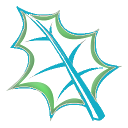
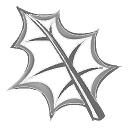
nerva2py v0.9.8

Changed region(s): [[0.0625, 0.0312, 0.9375, 0.9688]]

diff --git a/applications/nerva2py/views/ndi_demo/index.html b/applications/nerva2py/views/ndi_demo/index.html
@@ -85,14 +85,14 @@ var ms_missing = "{{=T('Missing required field!')}}"
 <table style="width: 100%;height: 100%;" cellpadding="0" cellspacing="0" border="0">
   <tr>
     <td colspan="2" style="background-color: #ECECEC;padding: 20px;padding-bottom: 15px;">
-      <div>
-        <div style="float: left;">
+      <div style="display: table;width: 100%;">
+        <div style="float: left;display: table-cell;height: 30px;">
           <span style="vertical-align: bottom;font-weight: bold;font-size: 44px;color: #8B8B83;">{{=response.subtitle}}</span>
         </div>
-        <div style="float: right;">
+        <div style="float: right;display: table-cell;vertical-align: middle;">
           <a href="http://www.nervatura.com" target="_blank" title="Nervatura" 
              style="font-weight: bold;">
-             <img style="vertical-align: middle;" src="{{=URL('static/images','icon24_ntura.png')}}"/>
+             <img style="vertical-align: middle;" src="{{=URL('static/images','icon24_ntura_te.png')}}"/>
              <span style="vertical-align: bottom;">©2011-2013 Nervatura Framework</span>
           </a>
           &nbsp;<span class="vernum">Ver.No: {{=response.verNo}}</span>

diff --git a/applications/nerva2py/static/resources/application/nmc/help/en/index.html b/applications/nerva2py/static/resources/application/nmc/help/en/index.html
@@ -97,7 +97,7 @@ $(document).bind("mobileinit", function(){
       <div data-role="content" align="center">
         <hr>
         <div style="font-weight: bold;width: 100%;text-align: center;font-size: large;">
-<!--           <img style="vertical-align: middle;" src="{{=URL('static/images','icon24_ntura.png')}}"/> -->
+<!--           <img style="vertical-align: middle;" src="{{=URL('static/images','icon24_ntura_te.png')}}"/> -->
           <span style="vertical-align: bottom;">{{=response.title}}</span>
         </div>
         <div style="font-weight: bold;width: 100%;text-align: center;font-size: large;">{{=T('HELP')}}</div>

diff --git a/applications/nerva2py/views/help/layout.html b/applications/nerva2py/views/help/layout.html
@@ -97,7 +97,7 @@
         <div class="footer-content clearfix">
           <div style="float: left;">
             <img style="vertical-align: middle;" height="16px" width="16px"
-            src="{{=URL('static','images/icon24_ntura.png')}}" /> 
+            src="{{=URL('static','images/icon24_ntura_te.png')}}" /> 
             <a href="http://www.nervatura.com" title="Nervatura OS Client" >Nervatura</a>
             &nbsp;
           </div>

diff --git a/applications/nerva2py/views/ndi_demo/layout.html b/applications/nerva2py/views/ndi_demo/layout.html
@@ -47,7 +47,7 @@
   }}
 
   {{include 'web2py_ajax.html'}}
-
+   
   <!-- uncomment here to load jquery-ui
   <link rel="stylesheet" href="http://ajax.googleapis.com/ajax/libs/jqueryui/1.8.16/themes/base/jquery-ui.css" type="text/css" media="all" />
   <script src="http://ajax.googleapis.com/ajax/libs/jqueryui/1.8.16/jquery-ui.min.js" type="text/javascript"></script>

diff --git a/applications/nerva2py/models/db.py b/applications/nerva2py/models/db.py
@@ -17,6 +17,7 @@ if 0:
 import sys,os
 from gluon.sql import DAL, Field
 from gluon.validators import IS_IN_DB
+from gluon.html import FORM, SELECT, URL, OPTION
 
 response.google_analytics_id = None
   
@@ -58,6 +59,26 @@ try:
   analytics_id.close()
 except:
   pass
+
+current_language = 'en'
+languages=[('en','English'),
+           ('hu','Magyar')]
+
+session._language = request.vars._language or session._language or current_language
+T.force(session._language)
+if T.accepted_language != session._language:
+  import re
+  lang = re.compile('\w{2}').findall(session._language)[0]
+  response.files.append(URL(r=request,c='static',f='js/jquery.translate.min.js'))
+  response.files.append(URL(r=request,c='ndr',f='translate',args=lang+'.js'))
+
+def translate():
+  return FORM(SELECT(
+    _id="translate",
+    _onchange="document.location='%s?_language='+jQuery(this).val()" \
+        % URL(r=request,args=request.args),
+    value=session._language,
+    *[OPTION(k,_value=v) for v,k in languages]))
 
 def createTable(table):
     query = db._adapter.create_table(table,migrate=False,fake_migrate=False)

diff --git a/applications/nerva2py/controllers/nwc.py b/applications/nerva2py/controllers/nwc.py
@@ -31,11 +31,11 @@ import gluon.contrib.simplejson as json
 
 from storage import Storage #@UnresolvedImport
 
-from nerva2py.nervastore import NervaStore
-from nerva2py.localstore import setEngine
-from nerva2py.tools import NervaTools, dict2obj, auth_ini
-from nerva2py.simplegrid import SimpleGrid
-from nerva2py.te import JqueryTeWidget
+from nerva2py.nervastore import NervaStore  # @UnresolvedImport
+from nerva2py.localstore import setEngine  # @UnresolvedImport
+from nerva2py.tools import NervaTools, dict2obj, auth_ini  # @UnresolvedImport
+from nerva2py.simplegrid import SimpleGrid  # @UnresolvedImport
+from nerva2py.te import JqueryTeWidget  # @UnresolvedImport
 
 import os, datetime, math, base64, re
 from StringIO import StringIO
@@ -15834,7 +15834,7 @@ def set_counter_bug(form):
       counter[0][0] = ""
 
 def export2excel(sheetname,query,left,fields,orderby,keywords,join=None,groupfields=None,groupby=None,having=None):
-  from xlwt import Workbook
+  from xlwt import Workbook  # @UnresolvedImport
   
   output = StringIO()
   book = Workbook(encoding='utf-8')
